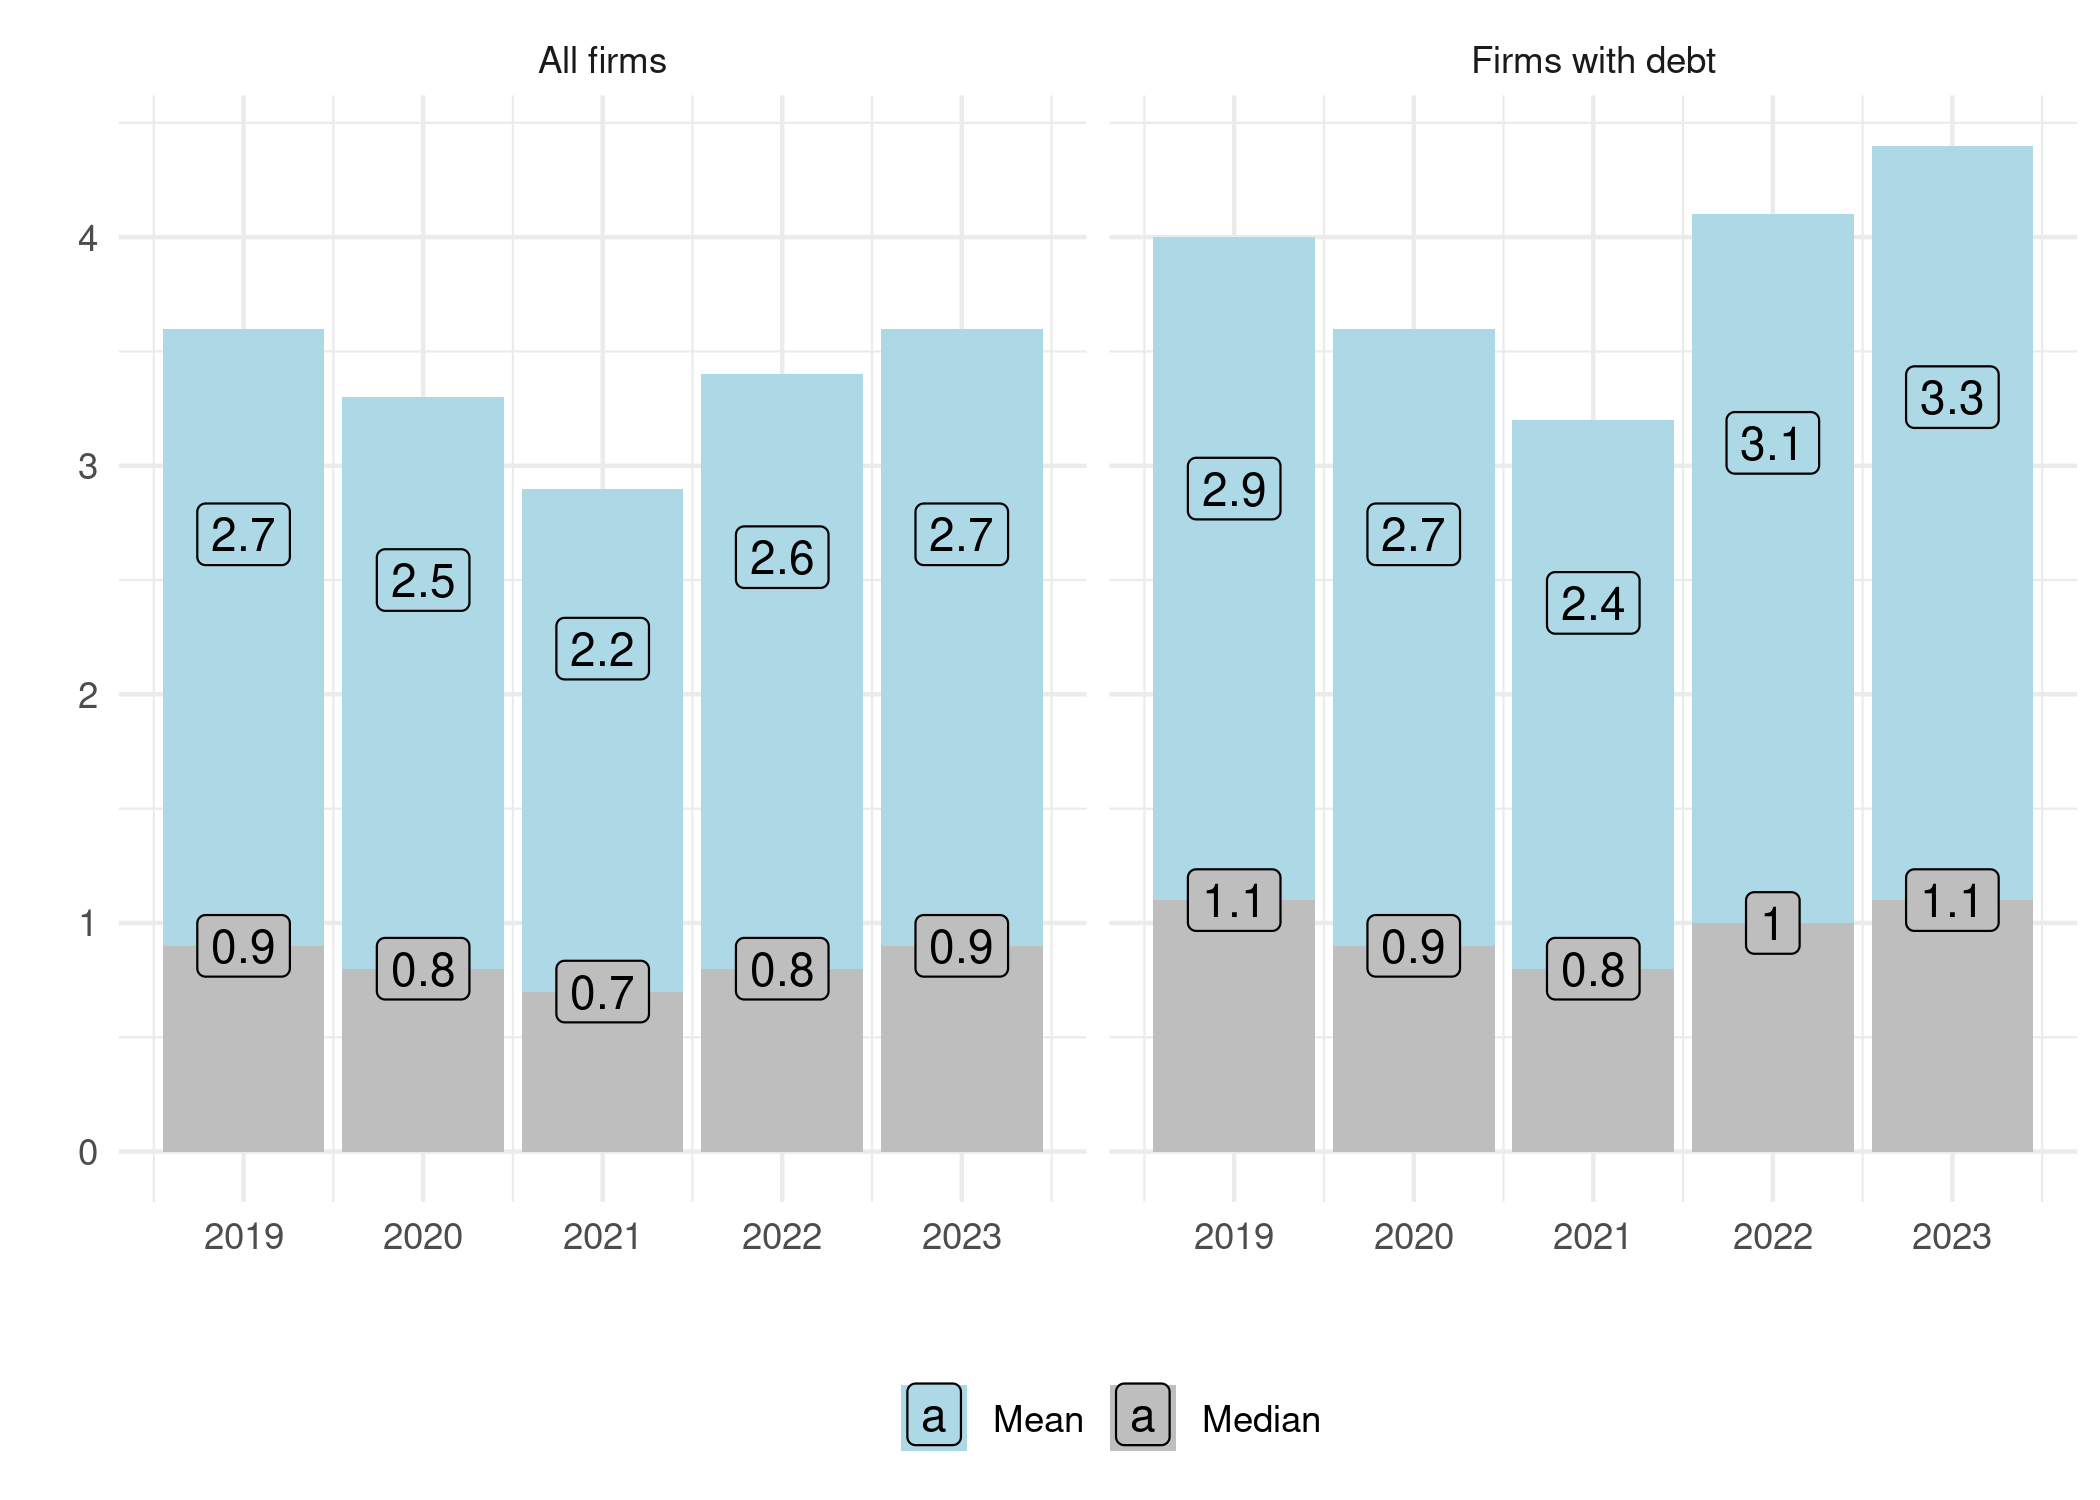
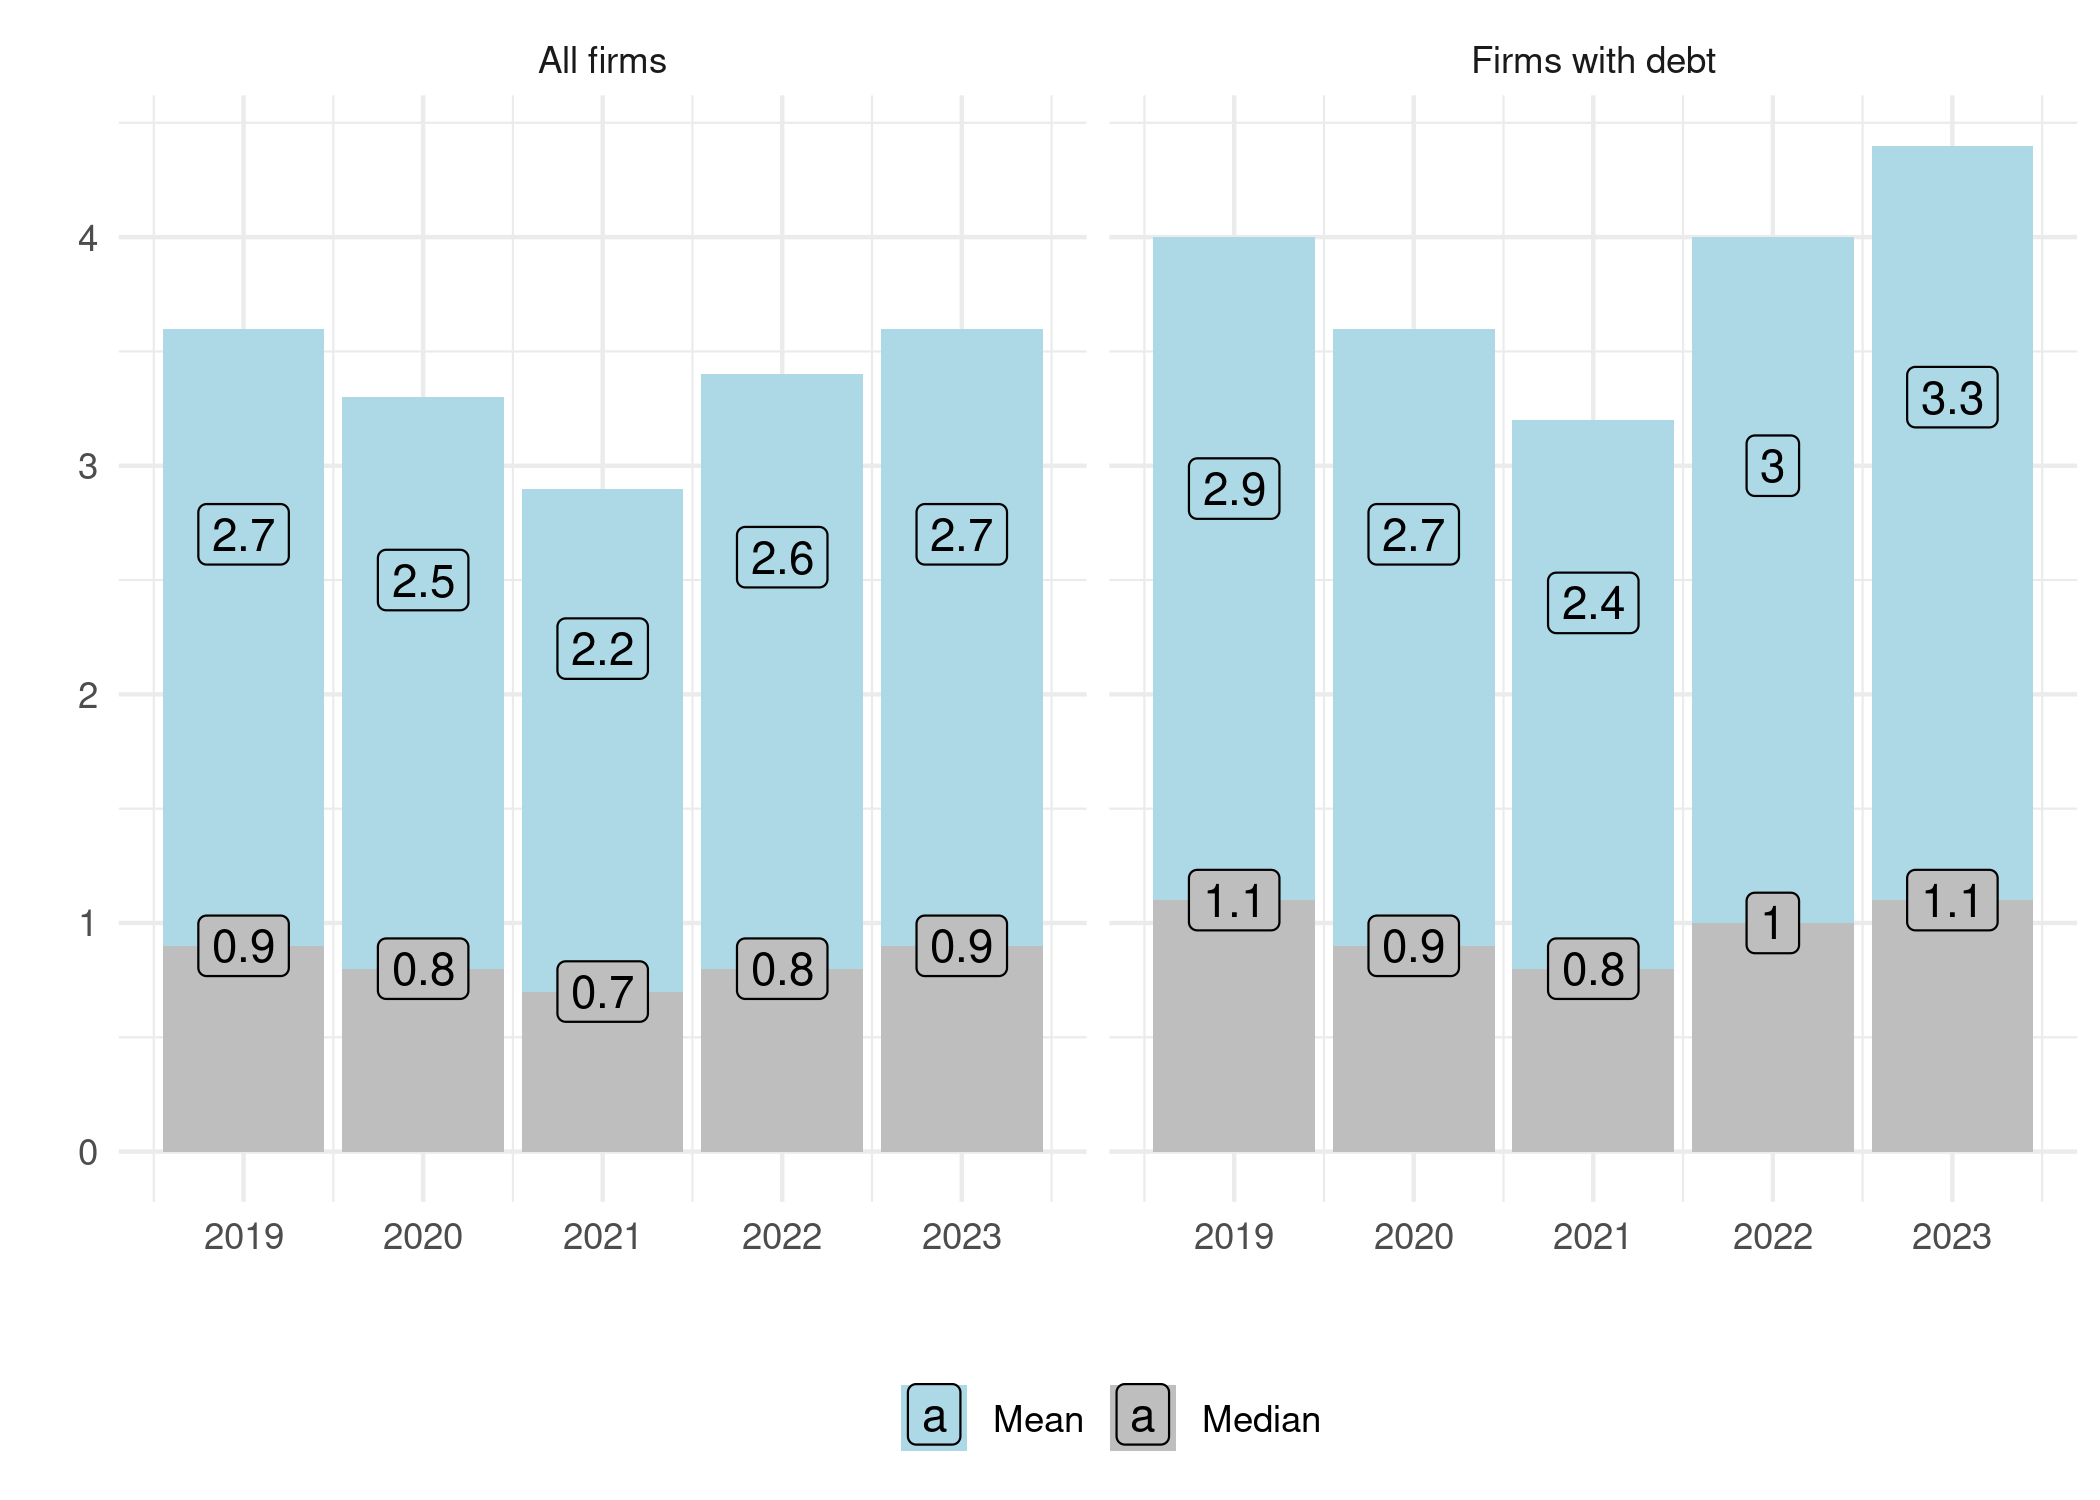
added changelog for v3.1.0

diff --git a/README.md b/README.md
@@ -182,7 +182,7 @@ The below figure explains how we constructed the data set. An annotated `Makefil
 ├── aux_data
 │   └── descriptive_names_dict.csv
 ├── code
-│   ├── 1_financials
+│   ├── 1_prepare_financials
 │   │   ├── 1a_collect_rosstat_data.R
 │   │   ├── 1b_build_rosstat_panel.R
 │   │   ├── 2a_collect_fns_xmls_ids.R
@@ -193,6 +193,8 @@ The below figure explains how we constructed the data set. An annotated `Makefil
 │   │   ├── 4_combine_rosstat_fns_panels.R
 │   │   ├── 5_build_articulation_panel.R
 │   │   ├── 6_adjust_values.R
+│   │   ├── 7_check_articulation_after_adjustment.R
+│   │   ├── 8_combine_original_and_adjusted_obs.R
 │   │   └── helpers
 │   │       ├── check_articulation_functions.R
 │   │       ├── parsing_dicts
@@ -254,7 +256,7 @@ The below figure explains how we constructed the data set. An annotated `Makefil
 ```
 ## Version and Update Policy
 
-Version (SemVer): `3.0.0`.
+Version (SemVer): `3.1.0`.
 
 We intend to update the RFSD annualy as the data becomes available, in other words when most of the firms have their statements filed with the Federal Tax Service. The official deadline for filing of previous year statements is April, 1. However, every year a portion of firms either fails to meet the deadline or submits corrections afterwards. As the figure below shows, filing continues up to the very end of the year but after the end of April this stream quickly thins out. Nevertheless, there is obviously a trade-off between minimization of data completeness and version availability. We find it a reasonable compromise to query new data in early June, since on average by the end of May 96.7% statements are already filed, including 86.4% of all the correcting filings. We plan to update RFSD annualy in late July — early August.
 
@@ -266,6 +268,16 @@ We intend to update the RFSD annualy as the data becomes available, in other wor
 ## Changelog
 
 All notable changes to this project will be documented below. The format is based on [Keep a Changelog](http://keepachangelog.com/).
+
+## [3.1.0] - 2026-09-02
+
+### Fixed
+- Fixed massive erroneous non-articulation issue in 2025. As stated in changelog for version 3.0.0, firms switched to reporting accounts receivable in `line_1240` (previously: `line_1230`). Ironically, having warned the users about this we fell into the trap ourselves: our totals adjustment procedure did not respect the switch resulting in incorrect values in `line_1600` and breaking articulation for many firms. 
+- Fixed an incoherity in marking all-zero observations as non-filed and non-imputed. The logic was first introduced in version 2.0.0, but its realization was faulty. Our financial data come from two sources, Rosstat and GIR BO. In the former, all missings are repesented by zeros, and since it is impossible to tell a true zero from a missing we replace all zeros with `NA`s in the period. In the latter, it is different: the data is parsed from XMLs and we can be sure that zeros have indeed been reported, so we do not replace them withs `NA`s. However, our code did not account for this difference between periods: we marked only all-`NA` cases, and not all-zero.
+- XML path for `line_3600` was broken while updating the parser for 3.0.0. Things are back to normal now.
+
+## Changed
+- Improved the totals adjustment procedure. We have noticed that adjustment broke articulation for several thousand observations each year. Now, we use adjusted statements only if they still articulate after changes made. If not, original statements are used. If a statement do not articulate neither before adjustement, nor after it, the adjusted version is used.  
 
 ## [3.0.0] - 2026-08-20
 

diff --git a/use_cases/interest_payments.md b/use_cases/interest_payments.md
@@ -182,7 +182,7 @@ figure2 <- ggplot(aes(x = year), data = firms_by_year) +
 plot(figure2)
 ```
 
-![](interest_payments_files/figure-gfm/figure2-1.png)<!-- -->
+![](..figures/interest_figure2-1.png)<!-- -->
 <img src="../figures/mogilyat_figure2.png" width="60%"/>
 
 Despite our efforts to replicate the target study filtering procedures,
@@ -224,7 +224,7 @@ figure3 <- ggplot(aes(x = year, y = value, group = statistic, fill = statistic, 
 plot(figure3)
 ```
 
-![](interest_payments_files/figure-gfm/figure3-1.png)<!-- -->
+![](../figures/interest_figure3-1.png)<!-- -->
 <img src="../figures/mogilyat_figure3.png" width="60%"/>
 
 The medians are identical, while the means are slightly different. We
@@ -269,7 +269,7 @@ figure3_alt <- ggplot(aes(x = year, y = value, group = statistic, fill = statist
 plot(figure3_alt)
 ```
 
-![](interest_payments_files/figure-gfm/figure3alt-1.png)<!-- -->
+![](../figures/interest_figure3alt-1.png)<!-- -->
 
 Here we observe an even higher interest/cost ratio, possibly indicating
 a greater role for the cost channel in the Russian economy.
